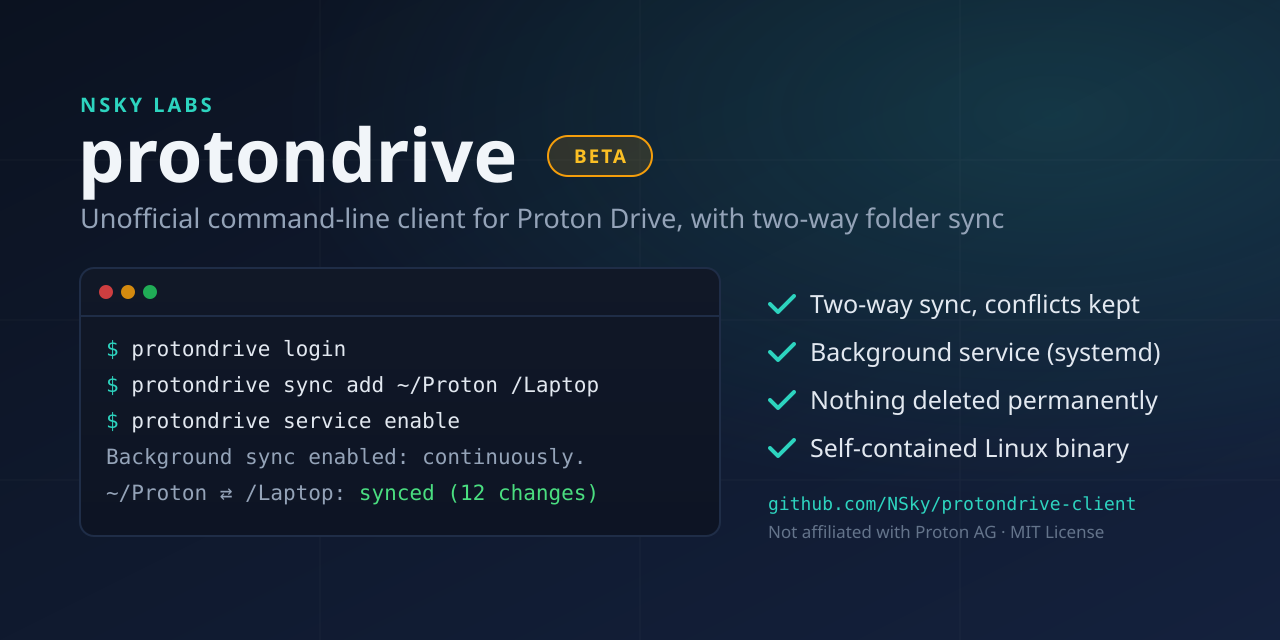
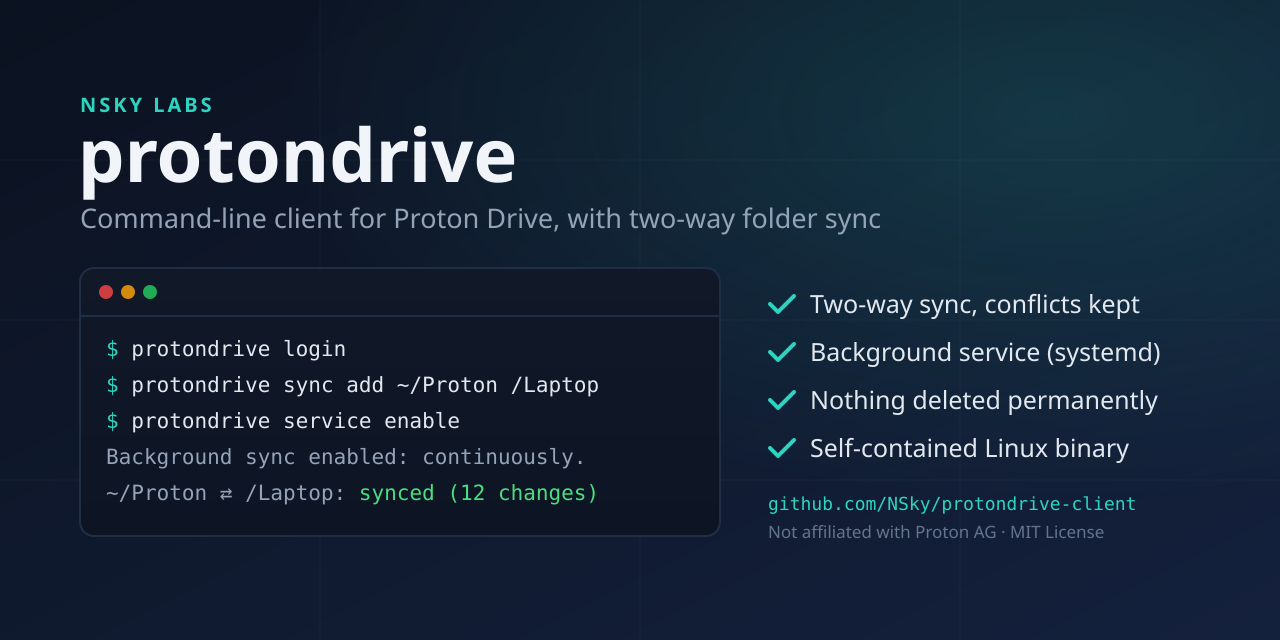
feat: Remove beta badge and "Unofficial" label from social preview; update help text to show beta notice only

Changed region(s): [[0.0625, 0.3125, 0.7812, 0.375], [0.4062, 0.1875, 0.5312, 0.2812]]

diff --git a/src/ProtonDrive.Cli/Sync/SyncCommand.cs b/src/ProtonDrive.Cli/Sync/SyncCommand.cs
@@ -169,8 +169,6 @@ internal static class SyncCommand
         }
 
         Console.WriteLine($"Run '{AppInfo.CommandName} sync' to sync now, or '{AppInfo.CommandName} sync --watch' to keep it in sync.");
-        Console.WriteLine();
-        Console.WriteLine("Sync changes and deletes files on both sides. " + AppInfo.Disclaimer);
         return 0;
     }
 
@@ -378,7 +376,7 @@ internal static class SyncCommand
         var engine = new SyncEngine(DriveBrowser.Create(context).Client, observer, reporter.Attention);
         reporter.UpdateStatus();
 
-        Console.Error.WriteLine($"{AppInfo.CommandName} {AppInfo.Version}: {AppInfo.ShortNotice}");
+        Console.Error.WriteLine($"{AppInfo.CommandName} {AppInfo.Version}");
         Console.Error.WriteLine($"Watching {pairs.Count} folder(s). Press Ctrl+C to stop.");
         foreach (var pair in pairs)
         {

diff --git a/src/ProtonDrive.Cli/Program.cs b/src/ProtonDrive.Cli/Program.cs
@@ -34,8 +34,6 @@ try
         case "login":
         {
             var username = GetOption(args, "--username", "-u");
-            Console.Error.WriteLine(AppInfo.Disclaimer);
-            Console.Error.WriteLine();
             var context = await auth.LoginAsync(new ConsoleLoginPrompter(), username, cts.Token);
             var address = await context.AccountClient.GetCurrentUserDefaultAddressAsync(cts.Token);
             Console.WriteLine($"Logged in as {context.Session.Username} <{address.EmailAddress}>.");
@@ -163,7 +161,6 @@ try
         case "version":
         case "--version":
             Console.WriteLine($"{AppInfo.CommandName} {AppInfo.Version} ({AppInfo.ProtonAppVersion})");
-            Console.WriteLine(AppInfo.ShortNotice);
             return 0;
 
         case "help":

diff --git a/src/ProtonDrive.Core/AppInfo.cs b/src/ProtonDrive.Core/AppInfo.cs
@@ -6,10 +6,7 @@ internal static class AppInfo
 {
     public const string CommandName = "protondrive";
 
-    /// <summary>One-line form of <see cref="Disclaimer"/>.</summary>
-    public const string ShortNotice = "BETA software, provided as is. Unofficial; not affiliated with Proton AG.";
-
-    /// <summary>Shown in the help text, at login and when a folder is added for sync.</summary>
+    /// <summary>Shown in the help text (<c>protondrive help</c>) only.</summary>
     public const string Disclaimer = """
         BETA VERSION. This is unofficial, third-party software. It is not affiliated with, endorsed by or
         supported by Proton AG. It is provided "as is", without warranty of any kind, and the authors accept no

diff --git a/CHANGELOG.md b/CHANGELOG.md
@@ -27,6 +27,10 @@ All notable changes to protondrive-client are listed here, newest first. The for
 
 ### Changed
 
+- **Quieter commands.** The beta and "provided as is" notice is now shown only in the help text
+  (`protondrive help`). `login`, `sync add`, `version` and `sync --watch` no longer print it.
+- **Social preview image:** the beta badge and the word "Unofficial" are gone; "Not affiliated with Proton AG"
+  stays.
 - **Clearer dry runs for files on both sides.** A dry run no longer lists every file present on both sides as
   "changed on both sides". It now tells them apart without reading file contents:
   - a different size is reported as a certain conflict, with both sizes;
